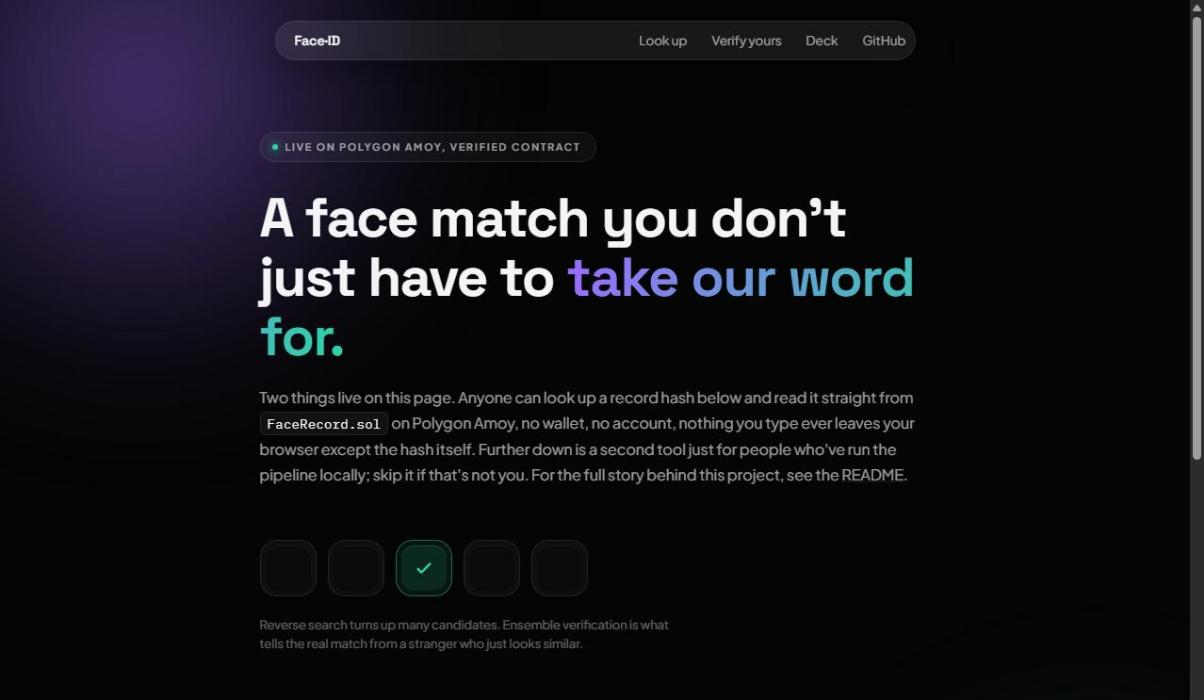
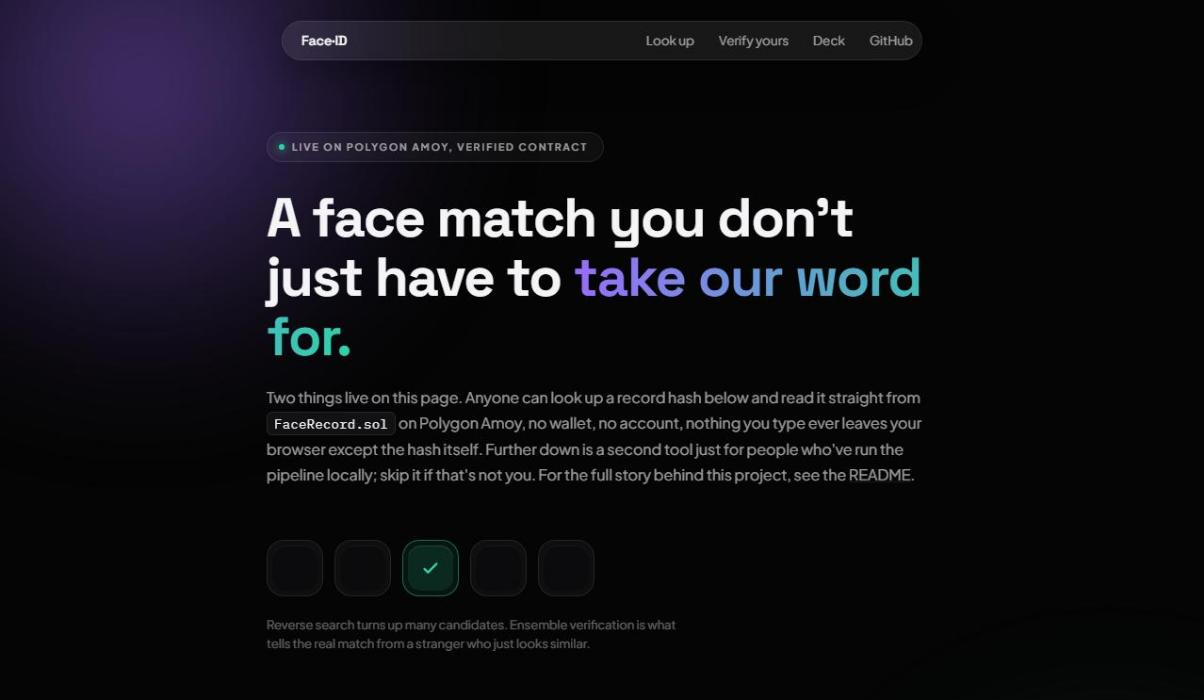
fix: remove scrollbar from the remaining two screenshots

diff --git a/docs/decisions.md b/docs/decisions.md
@@ -603,3 +603,9 @@ instead of just removing the artifact. Replaced
 User also asked to stop the README from accumulating further unprompted.
 Noted as a standing rule in memory: fix or replace what's asked, don't
 keep adding new images or sections on top of it.
+
+Checked the rest of the gallery after the fact and the hero screenshot and
+the verify-section screenshot had the exact same scrollbar artifact, only
+the record one had actually been retaken. Fixed both the same way. The
+two deck slides don't scroll (the fixed-stage deck sets `overflow:hidden`
+on `html`/`body`), so they were never affected.
